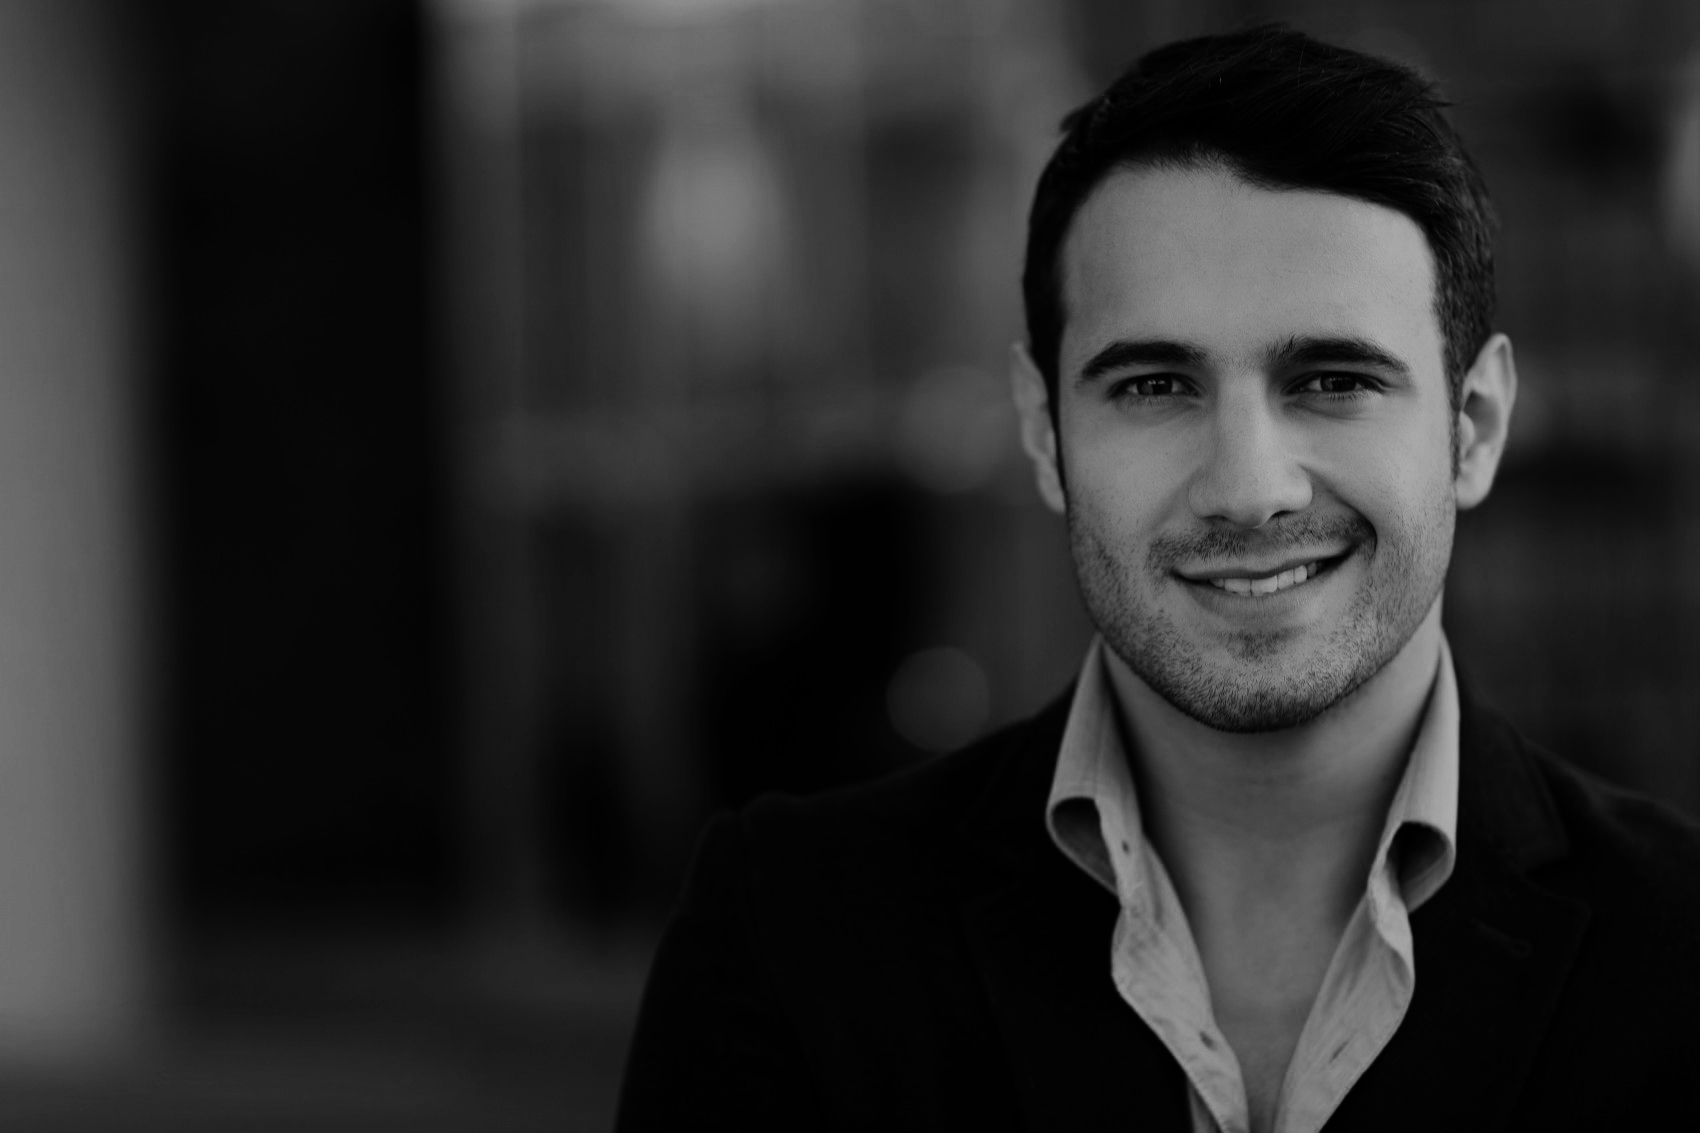
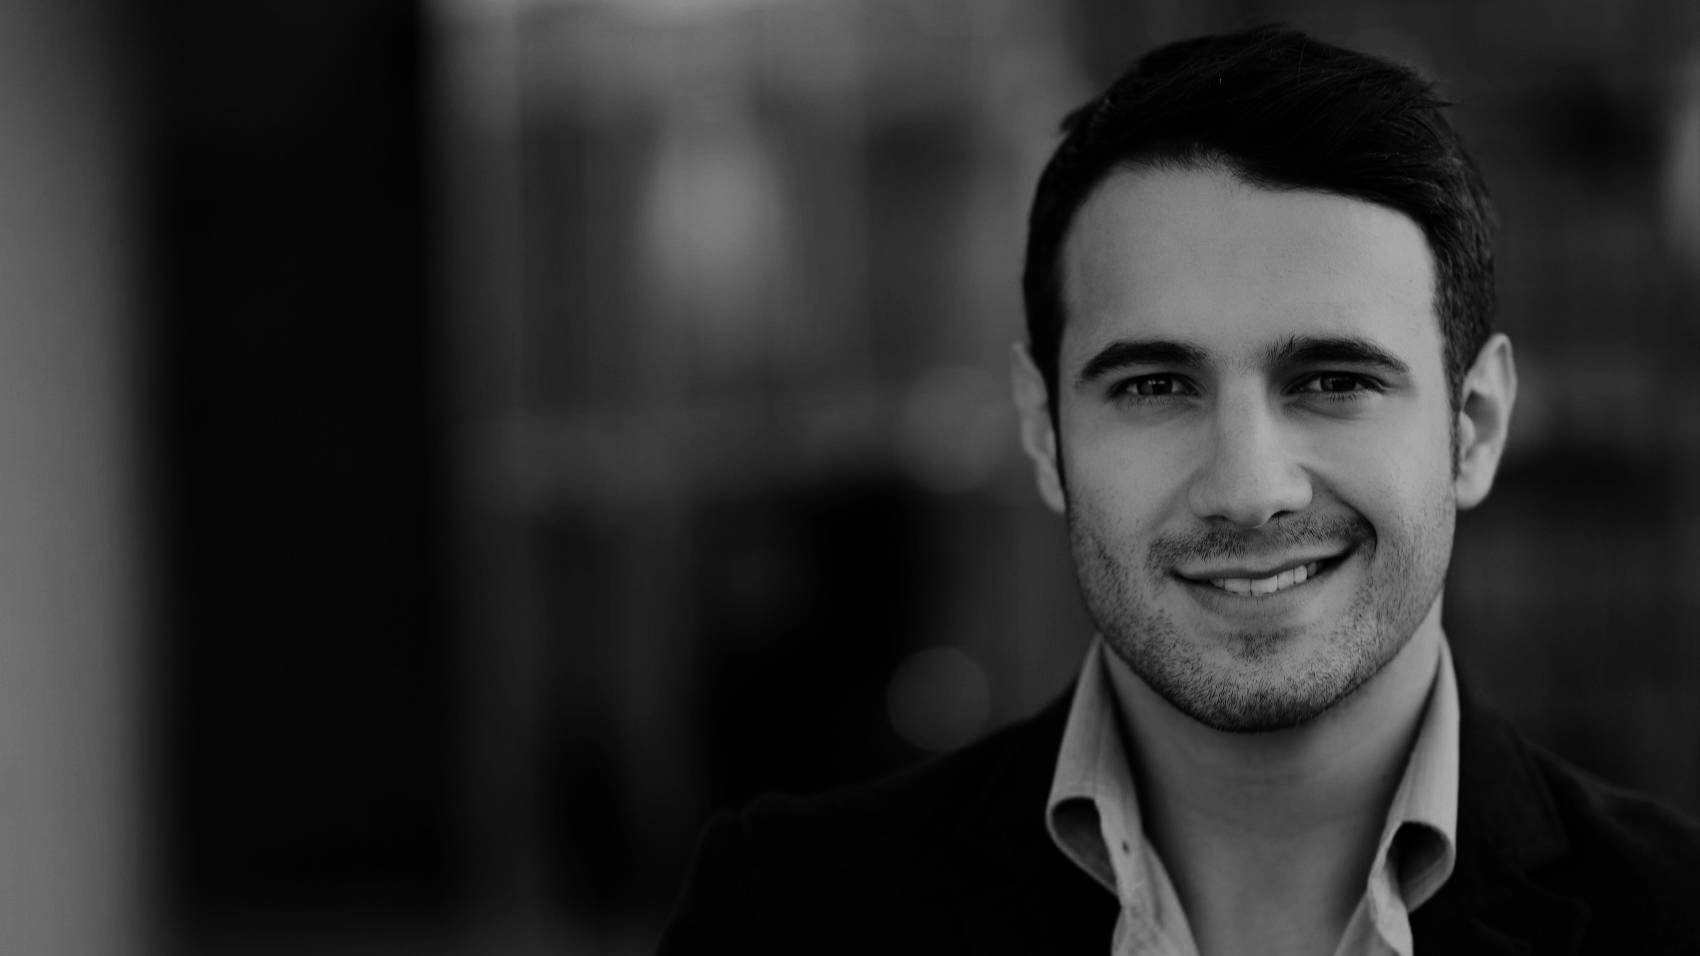
INIT: Landing images, text, script

diff --git a/src/index.html b/src/index.html
@@ -12,6 +12,13 @@
 
                 <section class="landing-section swiper-slide" id="landing-intro">
                     <div class="inner">
+
+                        <div class="bg">
+                            <div class="bg-12">
+                                <img class="fp-height" src="image/sample/photo1.jpg" alt="">
+                            </div>
+                        </div>
+
                         <h1 class="landing-headline"><span class="text">Express Legal Access<span class="dot-end">.</span></span></h1>
                         <a href="#" class="btn btn-le-primary-outline">Watch Video</a>
                     </div>
@@ -19,6 +26,13 @@
 
                 <section class="landing-section swiper-slide" id="landing-testi">
                     <div class="inner">
+                        <div class="bg">
+                            <div class="bg-4"><img class="fp-height zoom-scale" src="image/sample/photo2.jpg" alt=""></div>
+                            <div class="bg-4"><img class="fp-height zoom-scale" src="image/sample/photo3.jpg" alt=""></div>
+                            <div class="bg-4"><img class="fp-height zoom-scale" src="image/sample/photo4.jpg" alt=""></div>
+                            <div class="bg-4"><img class="fp-height zoom-scale" src="image/sample/photo5.jpg" alt=""></div>
+                        </div>
+
                         <h1 class="landing-headline"><span class="text">Read Their Stories<span class="dot-end">.</span></span></h1>
                         <a href="#" class="btn btn-le-primary-outline">Read More</a>
                     </div>
@@ -26,6 +40,13 @@
 
                 <section class="landing-section swiper-slide" id="landing-dialog">
                     <div class="inner">
+
+                        <div class="bg">
+                            <div class="bg-12">
+                                <img class="fp-height" src="image/sample/photo6.jpg" alt="">
+                            </div>
+                        </div>
+
                         <h1 class="landing-headline"><span class="text">Ask a lawyer<span class="dot-end">.</span></span></h1>
                         <a href="#" class="btn btn-le-primary-outline">Try Me</a>
                     </div>
@@ -33,9 +54,23 @@
 
                 <section class="landing-section swiper-slide" id="landing-draft">
                     <div class="inner">
+
+                        <div class="bg">
+                            <div class="bg-12">
+                                <img class="fp-height" src="image/sample/photo7.jpg" alt="">
+                            </div>
+                        </div>
+
                         <h1 class="landing-headline align-center"><span class="text">Create Legal Document<span class="dot-end">.</span></span></h1>
                     </div>
                 </section>
+            </div>
+        </div>
+
+        <div id="restrick-portrait">
+            <div class="inner">
+                <h1 class="restrick-portrait-headline">Currently this prototype doesn't support</h1>
+                <p class="restrick-portrait-byline">Mobile devices.</p>
             </div>
         </div>
 

diff --git a/src/style/module/common/_background.scss b/src/style/module/common/_background.scss
@@ -1,0 +1,54 @@
+.inner {
+
+    .bg {
+        @include clearfix;
+
+        position: absolute;
+        top: 0; left: 0;
+        width: 100vw;
+        height: 100vh;
+
+        *[class^="bg-"] {
+            position: relative;
+            float: left;
+        }
+
+        .bg-12 {
+            max-width: 100%;
+            width: 100%;
+            height: 100%;
+            overflow: hidden;
+        }
+
+        .bg-4 {
+            max-width: 25%;
+            width: 25%;
+            height: 100%;
+            overflow: hidden;
+        }
+
+        *[class^="bg-"] {
+
+            img.fp {
+                display: block;
+                position: absolute;
+                top: 0; left: 0;
+            }
+
+            img.fp-height {
+                @media screen and (orientation: landscape) { height: 100%; width: auto; }
+                @media screen and (orientation: portrait) { width: 100%; height: auto; }
+            }
+
+            img.fp-width {
+                @media screen and (orientation: landscape) { width: 100%; height: auto; }
+                @media screen and (orientation: portrait) {  height: 100%; width: auto;  }
+            }
+
+            img.zoom-scale {
+                @include s-transition( all 3s ease-out );
+                &:hover { @include s-scale( 1.1 ); }
+            }
+        }
+    }
+}

diff --git a/src/style/style.scss b/src/style/style.scss
@@ -35,13 +35,18 @@ $old: false;
 /* ------ {{ swiper v3.2.7 }} ------ */
 @import "vendor/swiper/swiper";
 
+/* ------ {{ focal-point v1.0.0 }} ------ */
+@import "vendor/focal-point/focal-point";
+
 /* ------ {{ legaleagle-landing v0.0.0 }} ------ */
 @import "module/common/element";
 @import "module/common/page";
 @import "module/common/nav";
 @import "module/common/button";
+@import "module/common/background";
 @import "module/landing/landing-layout";
 @import "module/landing/landing-intro";
 @import "module/landing/landing-testi";
 @import "module/landing/landing-dialog";
 @import "module/landing/landing-draft";
+@import "module/restrick/restrick";

diff --git a/src/style/module/restrick/_restrick.scss b/src/style/module/restrick/_restrick.scss
@@ -1,0 +1,27 @@
+#restrick-portrait {
+    position: absolute;
+    top: 0; left: 0;
+    width: 100vw;
+    height: 100vh;
+    z-index: 99999;
+    background-color: $black;
+
+    display: none;
+
+    & > .inner {
+        display: table-cell;
+        vertical-align: middle;
+    }
+
+    .restrick-portrait-headline {
+        text-align: center;
+        margin: 0;
+        font-family: $ff-sans-medium;
+    }
+
+    .restrick-portrait-byline {
+        text-align: center;
+        margin: 0;
+        font-family: $ff-sans-medium;
+    }
+}

diff --git a/src/script/index.js b/src/script/index.js
@@ -13,7 +13,13 @@ __webpack_public_path__ =
 var dommon = require( './module/dommon' )
 ,   landing = require( './module/landing' );
 
+if ( !landing.viewport.isLandscape() )
+    document.getElementById( 'restrick-portrait' )
+        .style.display = 'table';
+
 dommon.ready( function() {
+
+    console.log( landing.viewport );
 
     this.swiper = landing.section.initSwiper();
 });

diff --git a/src/style/module/landing/_landing-layout.scss b/src/style/module/landing/_landing-layout.scss
@@ -14,6 +14,8 @@
 
         & > .inner {
 
+            position: relative;
+
             display: table-cell;
             vertical-align: middle;
 
@@ -29,6 +31,7 @@
         font-size: r(3.375rem);
         letter-spacing: .03em;
         margin: 0;
+        pointer-events: none;
 
         &.align-center {
             text-align: center;

diff --git a/src/script/module/landing/index.js b/src/script/module/landing/index.js
@@ -1,5 +1,6 @@
 var Landing = {
-    section: require( './section' )
+    section: require( './section.js' ),
+    viewport: require( './viewport.js' )
 };
 
 module.exports = Landing;

diff --git a/src/script/module/landing/viewport.js b/src/script/module/landing/viewport.js
@@ -1,0 +1,7 @@
+var Viewport = {};
+
+Viewport.isLandscape = function() {
+    return !!(verge.viewportW() > verge.viewportH());
+}
+
+module.exports = Viewport;
